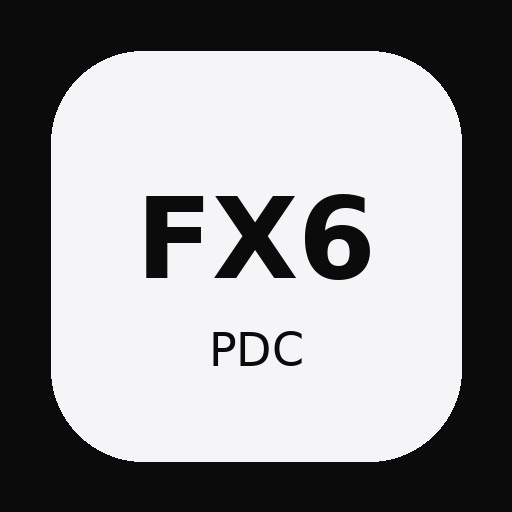
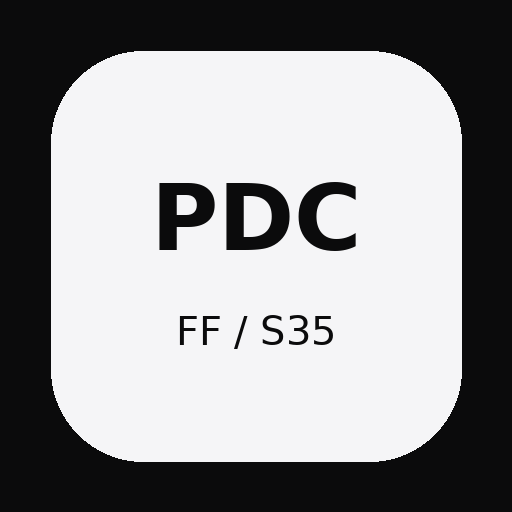
Add files via upload

Changed region(s): [[0.2812, 0.3438, 0.75, 0.5625], [0.3438, 0.5938, 0.6562, 0.7188]]

diff --git a/index.html b/index.html
@@ -6,8 +6,8 @@
   <meta name="theme-color" content="#0b0b0c" />
   <meta name="apple-mobile-web-app-capable" content="yes" />
   <meta name="apple-mobile-web-app-status-bar-style" content="black-translucent" />
-  <meta name="apple-mobile-web-app-title" content="FX6 PDC" />
-  <title>FX6 — Profondeur de champ</title>
+  <meta name="apple-mobile-web-app-title" content="PDC" />
+  <title>Profondeur de champ</title>
   <link rel="manifest" href="manifest.webmanifest" />
   <link rel="apple-touch-icon" href="icon-192.png" />
   <link rel="stylesheet" href="style.css" />
@@ -16,13 +16,24 @@
   <main class="app">
     <header class="top">
       <div>
-        <div class="eyebrow">SONY FX6 · FULL FRAME</div>
+        <div class="eyebrow">FULL FRAME · SUPER 35</div>
         <h1>Profondeur de champ</h1>
       </div>
       <button class="info" id="infoBtn" aria-label="Informations">i</button>
     </header>
 
     <section class="panel input-panel">
+      <div class="field">
+        <div class="label-row">
+          <label>Format capteur</label>
+          <span class="unit">sélection</span>
+        </div>
+        <div class="chips sensor-chips" data-target="sensor">
+          <button class="active" data-value="ff">Full Frame</button>
+          <button data-value="s35">Super 35</button>
+        </div>
+      </div>
+
       <div class="field">
         <div class="label-row">
           <label for="focal">Focale</label>
@@ -58,10 +69,25 @@
           <button>3</button><button>5</button><button>10</button>
         </div>
       </div>
+
+      <div class="mini-panel">
+        <div class="mini-title">REPÈRES PLEIN FORMAT</div>
+        <div class="mini-grid">
+          <div class="mini-card">
+            <span>Équiv. focale Full Frame</span>
+            <strong id="ffEquivalent">—</strong>
+          </div>
+          <div class="mini-card">
+            <span>Même cadre en Full Frame<br>avec la même focale</span>
+            <strong id="ffDistanceSameFocal">—</strong>
+          </div>
+        </div>
+      </div>
     </section>
 
     <section class="result">
       <div class="result-label">PROFONDEUR DE CHAMP</div>
+      <div class="format-badge" id="formatBadge">Full Frame</div>
       <div class="dof" id="dof">—</div>
       <div class="range" id="range">—</div>
 
@@ -100,8 +126,8 @@
       </div>
     </section>
 
-    <footer>
-      Cercle de confusion : 0,030 mm · préréglage plein format FX6
+    <footer id="footerText">
+      Cercle de confusion : 0,030 mm · préréglage plein format
     </footer>
   </main>
 
@@ -109,9 +135,10 @@
     <div class="dialog-inner">
       <button id="closeDialog" class="close" aria-label="Fermer">×</button>
       <h2>À propos du calcul</h2>
-      <p>Le calcul utilise un cercle de confusion de 0,030 mm, valeur courante pour le plein format 24×36.</p>
-      <p>Si tu renseignes un T-stop, le résultat est une approximation : la profondeur de champ dépend théoriquement du f-number optique.</p>
-      <p>Les valeurs sont destinées à aider rapidement sur le plateau, pas à remplacer les repères précis d'une optique ou un test caméra.</p>
+      <p>L’application permet désormais de choisir entre <strong>Full Frame</strong> et <strong>Super 35</strong>.</p>
+      <p>Le calcul utilise un cercle de confusion de <strong>0,029 mm</strong> en Full Frame et <strong>0,019 mm</strong> en Super 35, avec un facteur de crop de <strong>1,5×</strong>.</p>
+      <p>Le bloc « Repères plein format » indique l’équivalent en Full Frame et la distance à adopter en Full Frame si tu gardes la même focale pour conserver le même cadre.</p>
+      <p>Si tu renseignes un T-stop, le résultat reste une approximation : la profondeur de champ dépend théoriquement du f-number optique.</p>
     </div>
   </dialog>
 

diff --git a/app.js b/app.js
@@ -1,4 +1,15 @@
-const COC = 0.030; // mm — full frame preset
+const FORMATS = {
+  ff: {
+    name: "Full Frame",
+    coc: 0.029,
+    cropToFF: 1
+  },
+  s35: {
+    name: "Super 35",
+    coc: 0.019,
+    cropToFF: 1.5
+  }
+};
 
 const $ = (id) => document.getElementById(id);
 const inputs = {
@@ -7,8 +18,16 @@ const inputs = {
   distance: $("distance")
 };
 
+let currentSensor = "ff";
+
 function parseFR(v) {
   return Number(String(v).replace(",", ".").trim());
+}
+
+function roundSmart(value) {
+  if (value >= 100) return Math.round(value);
+  if (value >= 10) return Math.round(value * 10) / 10;
+  return Math.round(value * 100) / 100;
 }
 
 function formatM(m) {
@@ -26,25 +45,51 @@ function formatDepth(m) {
   return `${m.toFixed(1).replace(".", ",")} m`;
 }
 
+function formatFocal(mm) {
+  const value = roundSmart(mm).toString().replace(".", ",");
+  return `${value} mm`;
+}
+
 function updateActiveChips() {
-  document.querySelectorAll(".chips").forEach(group => {
+  document.querySelectorAll(".chips[data-target]").forEach(group => {
     const target = group.dataset.target;
     const val = parseFR(inputs[target].value);
     group.querySelectorAll("button").forEach(btn => {
       btn.classList.toggle("active", Math.abs(parseFR(btn.textContent) - val) < 0.0001);
     });
   });
+
+  document.querySelectorAll(".sensor-chips button").forEach(btn => {
+    btn.classList.toggle("active", btn.dataset.value === currentSensor);
+  });
+}
+
+function updateEquivalentInfo(focal, distanceM) {
+  const crop = FORMATS[currentSensor].cropToFF;
+  const ffFocal = focal * crop;
+  const ffDistanceSameFocal = distanceM / crop;
+
+  $("ffEquivalent").textContent = formatFocal(ffFocal);
+  $("ffDistanceSameFocal").textContent = formatM(ffDistanceSameFocal);
 }
 
 function calculate() {
+  const fmt = FORMATS[currentSensor];
+  const COC = fmt.coc;
+
   const f = parseFR(inputs.focal.value);        // mm
   const N = parseFR(inputs.aperture.value);
-  const sM = parseFR(inputs.distance.value);   // m
+  const sM = parseFR(inputs.distance.value);    // m
+
+  $("formatBadge").textContent = fmt.name;
+  $("footerText").textContent = `Cercle de confusion : ${fmt.coc.toFixed(3).replace(".", ",")} mm · préréglage ${fmt.name.toLowerCase()}`;
 
   if (!(f > 0 && N > 0 && sM > 0)) {
-    ["dof","range","near","far","front","back","hyper","frontLabel","backLabel"].forEach(id => $(id).textContent = "—");
+    ["dof","range","near","far","front","back","hyper","frontLabel","backLabel","ffEquivalent","ffDistanceSameFocal"].forEach(id => $(id).textContent = "—");
     return;
   }
+
+  updateEquivalentInfo(f, sM);
 
   const s = sM * 1000; // mm
   const H = (f * f) / (N * COC) + f;
@@ -75,10 +120,17 @@ function calculate() {
   updateActiveChips();
 }
 
-document.querySelectorAll(".chips button").forEach(btn => {
+document.querySelectorAll(".chips[data-target] button").forEach(btn => {
   btn.addEventListener("click", () => {
     const target = btn.closest(".chips").dataset.target;
     inputs[target].value = btn.textContent;
+    calculate();
+  });
+});
+
+document.querySelectorAll(".sensor-chips button").forEach(btn => {
+  btn.addEventListener("click", () => {
+    currentSensor = btn.dataset.value;
     calculate();
   });
 });

diff --git a/style.css b/style.css
@@ -18,7 +18,7 @@ button{cursor:pointer}
 h1{font-size:28px;line-height:1.05;margin:6px 0 0;letter-spacing:-.03em}
 .info,.close{border:1px solid var(--line);background:var(--panel);color:var(--text);width:34px;height:34px;border-radius:50%;font-weight:700}
 .panel{background:var(--panel);border:1px solid #242428;border-radius:22px;padding:18px}
-.field+.field{margin-top:22px}
+.field+.field,.mini-panel{margin-top:22px}
 .label-row{display:flex;justify-content:space-between;align-items:center;margin-bottom:7px}
 label{font-size:13px;font-weight:700}
 .unit{font-size:12px;color:var(--muted)}
@@ -34,9 +34,34 @@ input:focus{border-color:#6d6d73}
   border-radius:999px;padding:8px 12px;font-size:13px;font-weight:700
 }
 .chips button.active{background:var(--text);color:#111;border-color:var(--text)}
+.sensor-chips{padding-top:0}
+.sensor-chips button{padding:10px 16px}
+.mini-panel{
+  border-top:1px solid #242428;
+  padding-top:18px;
+}
+.mini-title{
+  font-size:11px;letter-spacing:.14em;color:var(--muted);font-weight:800;margin-bottom:10px
+}
+.mini-grid{
+  display:grid;grid-template-columns:1fr 1fr;gap:10px
+}
+.mini-card{
+  background:#101012;border:1px solid var(--line);border-radius:14px;padding:12px
+}
+.mini-card span{
+  display:block;font-size:11px;color:var(--muted);line-height:1.35;margin-bottom:6px
+}
+.mini-card strong{
+  display:block;font-size:17px;line-height:1.2
+}
 .result{padding:26px 2px 0;text-align:center}
 .result-label{font-size:11px;letter-spacing:.16em;color:var(--muted);font-weight:800}
-.dof{font-size:54px;line-height:1;margin-top:8px;font-weight:900;letter-spacing:-.055em}
+.format-badge{
+  display:inline-block;margin-top:10px;padding:6px 10px;border:1px solid var(--line);border-radius:999px;
+  font-size:12px;color:#d2d2d6;background:var(--panel)
+}
+.dof{font-size:54px;line-height:1;margin-top:12px;font-weight:900;letter-spacing:-.055em}
 .range{margin-top:8px;color:#c7c7cc;font-size:14px}
 .visual{height:86px;position:relative;margin:24px 18px 12px}
 .line{position:absolute;left:0;right:0;top:35px;height:2px;background:linear-gradient(90deg,#3c3c42 0%,#fff 50%,#3c3c42 100%)}
@@ -57,6 +82,9 @@ dialog::backdrop{background:rgba(0,0,0,.68);backdrop-filter:blur(6px)}
 .dialog-inner h2{margin:0 38px 14px 0;font-size:22px}
 .dialog-inner p{color:#c6c6ca;line-height:1.5;font-size:14px}
 .close{position:absolute;right:18px;top:18px;font-size:20px;line-height:1}
+@media (max-width:430px){
+  .mini-grid{grid-template-columns:1fr}
+}
 @media (max-width:380px){
   .dof{font-size:46px}
   input{font-size:28px;height:58px}

diff --git a/sw.js b/sw.js
@@ -1,4 +1,4 @@
-const CACHE = "fx6-pdc-v1";
+const CACHE = "pdc-fullframe-s35-v2.1";
 const ASSETS = [
   "./",
   "./index.html",
